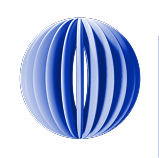
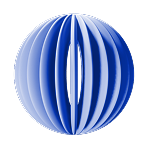
mobile view

diff --git a/brandworx-agency/src/components/ServiceSection/Servicesection.jsx b/brandworx-agency/src/components/ServiceSection/Servicesection.jsx
@@ -1,9 +1,10 @@
 import "./Servicesection.css";
-import vectorImg from "../../Assests/Vector 4.png";
+import vectorImg from "../../Assests/Vector 2.png";
 import ringsSide from "../../Assests/Rings-side.png";
+import { WorkWithUs } from "../WorkWithus/WorkWithUs";
 export const Servicesection = () => {
   return (
-    <div className="service-section">
+    <div className="service-section" id="about">
       <div className="agency-container">
         <p>Agency That can Help You grow your Business Digitally</p>
         <span>
@@ -12,8 +13,23 @@ export const Servicesection = () => {
         <br />
         <span>Branding & Strategy, Etc...</span>
       </div>
+
       <img src={vectorImg} alt="vector" className="imgvector4" />
       <img src={ringsSide} alt="ring" className="imgrings" />
+
+      <div className="work-Togeather-container">
+        <p>Let’s Work Together With Our Us</p>
+        <span style={{ fontSize: "12px" }}>
+          Partner with us to bring your vision to life through collaboration,
+          innovation, and tailored
+        </span>
+        <br />
+        <span style={{ fontSize: "12px" }}>
+          solutions that meet your unique needs. Together, we'll create
+          something extraordinary.
+        </span>
+      </div>
+      <WorkWithUs />
     </div>
   );
 };

diff --git a/brandworx-agency/src/components/ServiceSection/Servicesection.css b/brandworx-agency/src/components/ServiceSection/Servicesection.css
@@ -27,9 +27,24 @@
   font-weight: 400px;
 }
 
+.work-Togeather-container {
+  width: 40%;
+  height: 238px;
+  text-align: left;
+  margin: 100px;
+  position: relative;
+  top: -120px;
+}
+
+.work-Togeather-container > p {
+  font-size: 54px;
+  font-family: Plus Jakarta Sans;
+  font-weight: 400px;
+}
+
 .imgvector4 {
   position: absolute;
-  top: 250px;
+  top: 150px;
   width: 90%;
   left: 30px;
 }
@@ -53,6 +68,10 @@
   .imgrings {
     height: 100.2px;
     width: 100.2px;
-    top: 370px;
+    top: 360px;
+  }
+
+  .work-Togeather-container > p {
+    font-size: 34px;
   }
 }

diff --git a/brandworx-agency/src/components/WorkWithus/WorkWithUs.jsx b/brandworx-agency/src/components/WorkWithus/WorkWithUs.jsx
@@ -1,0 +1,13 @@
+import "./WorkWithUs.css";
+import frame1 from "../../Assests/box/Frame 1.png";
+import frame2 from "../../Assests/box/Frame 2.png";
+import frame3 from "../../Assests/box/Frame 3.png";
+export const WorkWithUs = () => {
+  return (
+    <div className="work-container" id="services">
+      <img src={frame1} alt="frame1" />
+      <img src={frame2} alt="frame2" />
+      <img src={frame3} alt="frame3" />
+    </div>
+  );
+};

diff --git a/brandworx-agency/src/components/WorkWithus/WorkWithUs.css b/brandworx-agency/src/components/WorkWithus/WorkWithUs.css
@@ -1,0 +1,18 @@
+.work-container {
+  width: 90%;
+  padding: 20px;
+  position: relative;
+  left: 50px;
+  top: -160px;
+}
+
+img {
+  margin: 5px;
+}
+
+@media (width<=786px) {
+  .work-container > img {
+    width: 90%;
+    left: 10px;
+  }
+}
